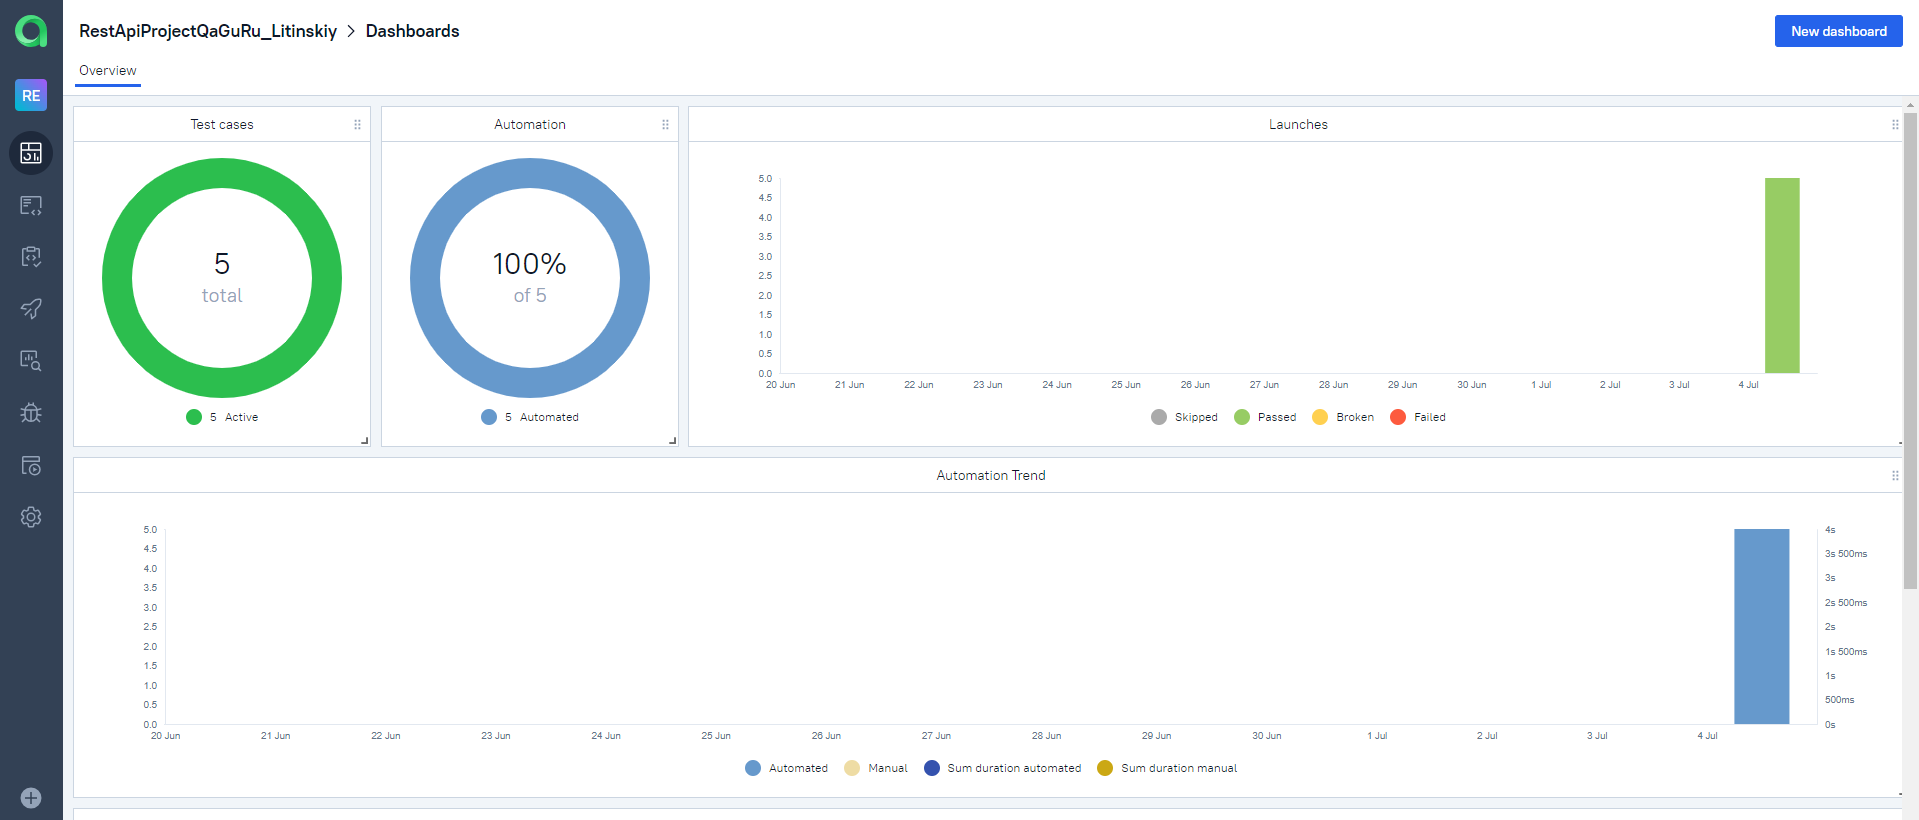
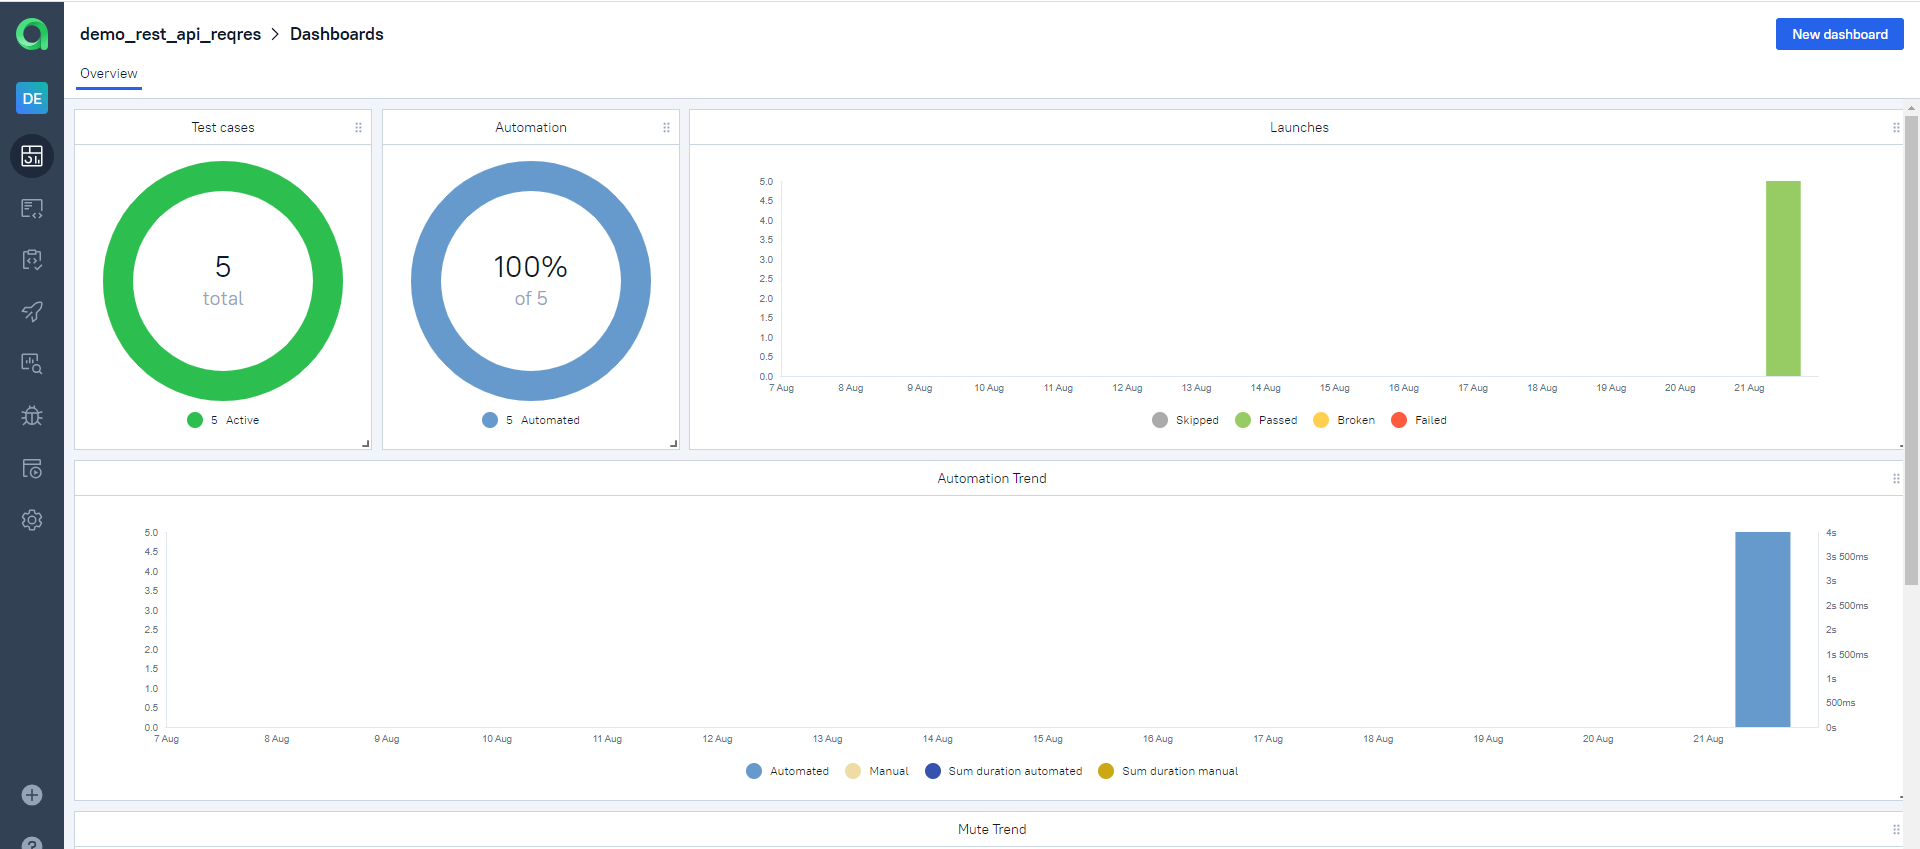
testtops png add

diff --git a/README.md b/README.md
@@ -117,7 +117,7 @@ Telegram-бот отправляет краткий отчет в указанн
 
 [Back to Contents ⬆](#Contents)
 
-# <a>Integration with [Allure TestOps](https://allure.autotests.cloud/launch/28948)</a>
+# <a>Integration with [Allure TestOps](https://allure.autotests.cloud/launch/29001)</a>
 
 
 ## Allure TestOps Dashboard
